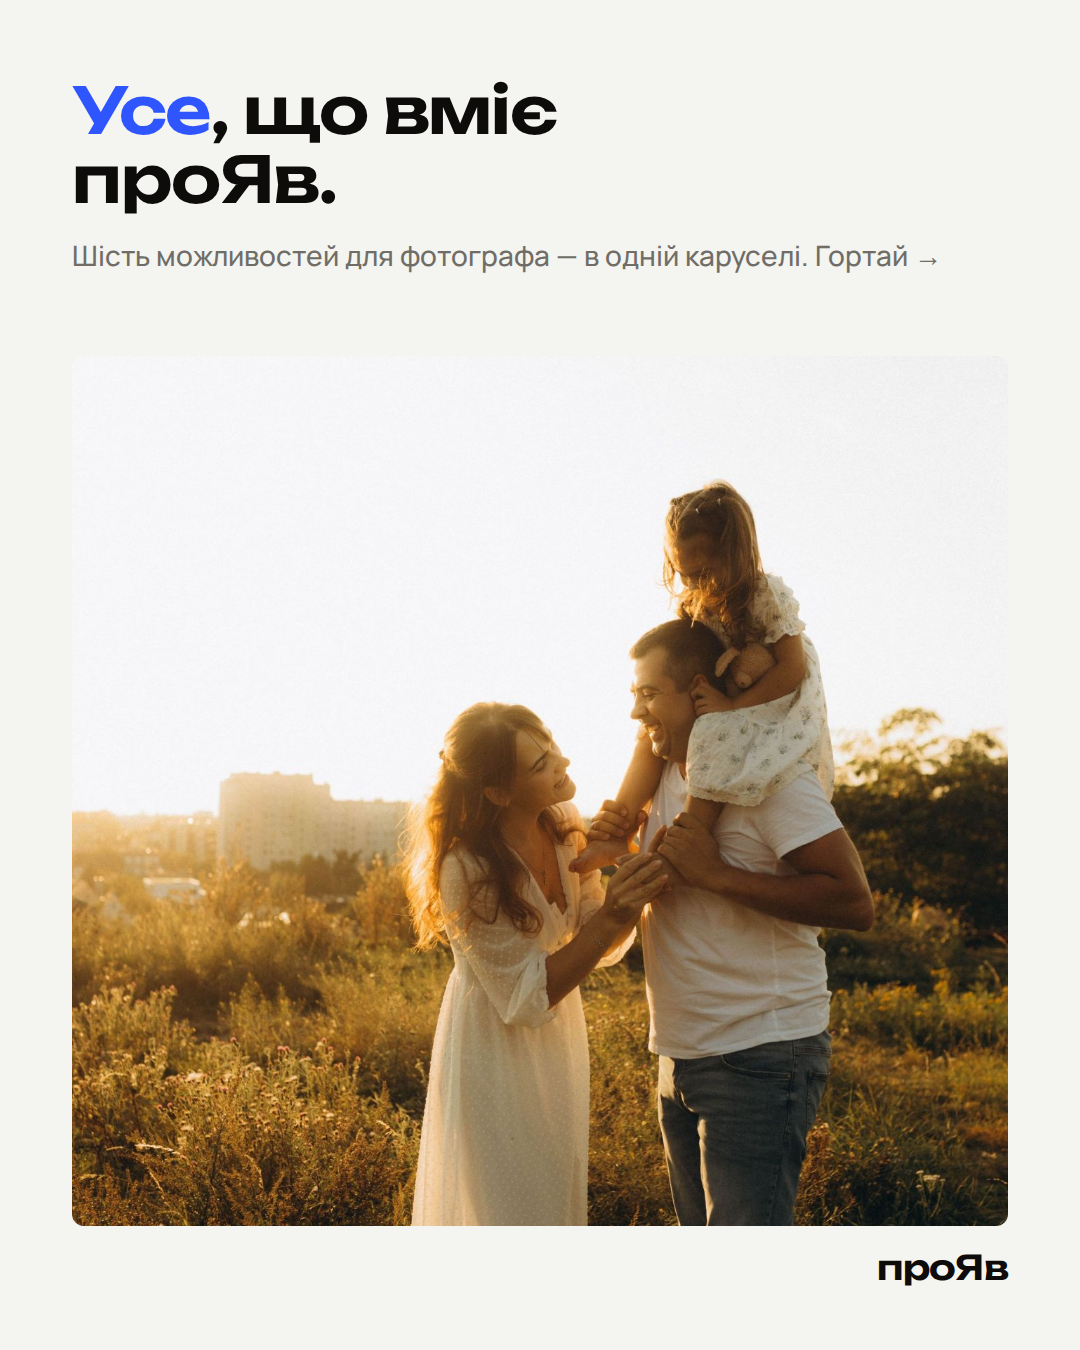
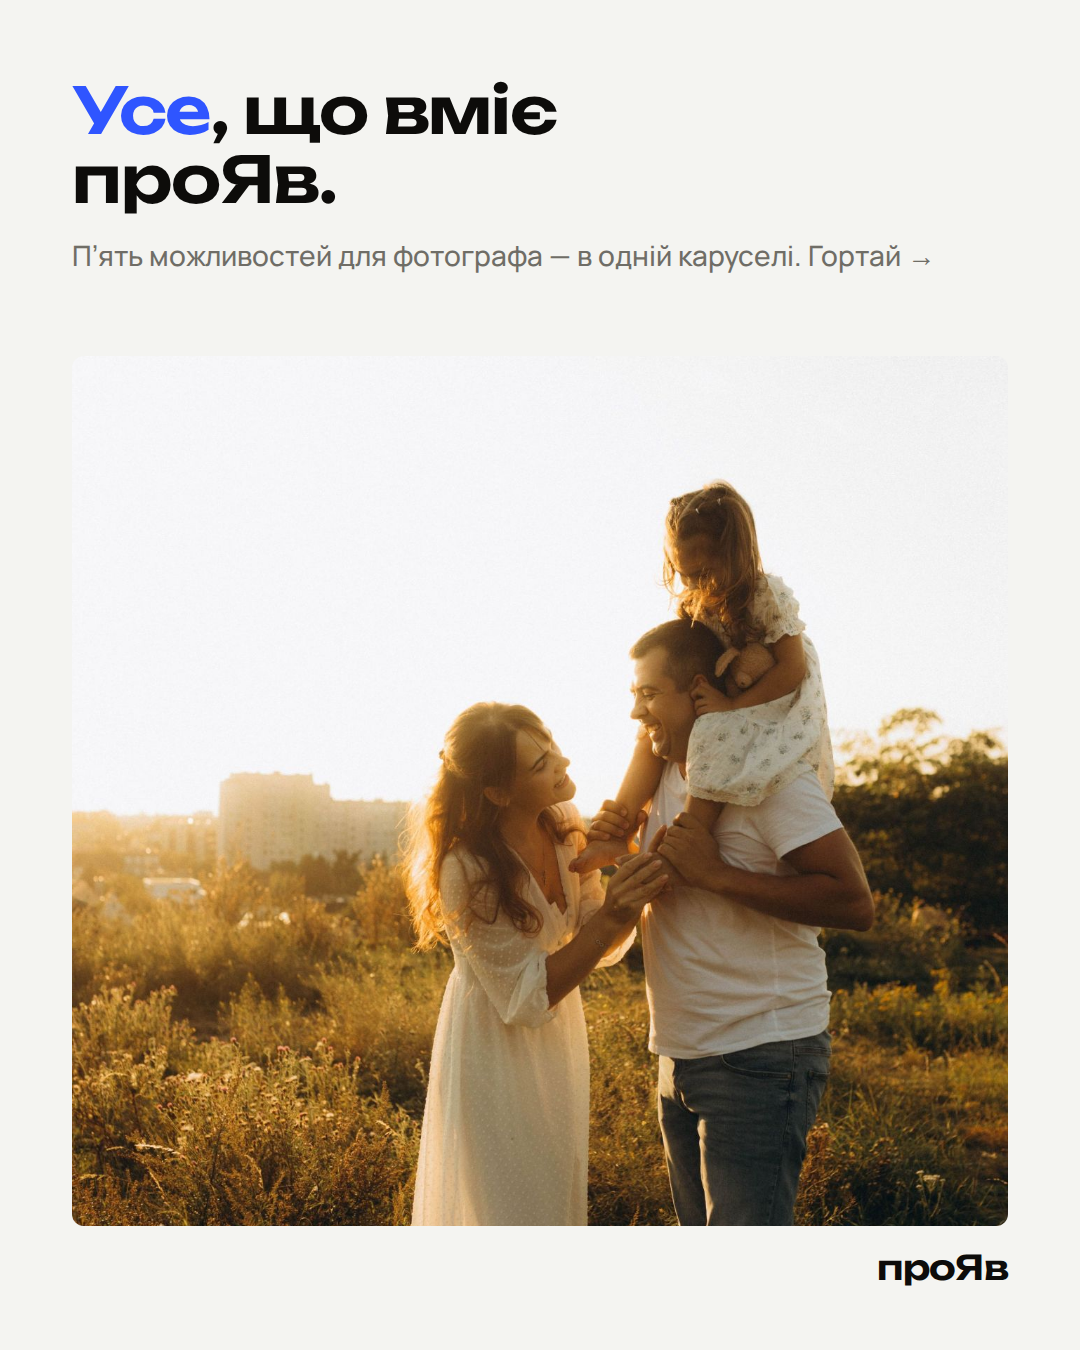
Instagram: drop booking (not set up yet) from benefits stories and post 6
Claude-Session: https://claude.ai/code/session_011MSKAXg5H2XrJH8r6h15Hd

Changed region(s): [[0.0611, 0.1867, 0.8556, 0.2178]]

diff --git a/marketing/instagram/posts.html b/marketing/instagram/posts.html
@@ -445,13 +445,12 @@ const POSTS = [
     { h: 'Скільки разів <em>відкрили.</em>', p: 'Перегляди й завантаження кожної галереї — з тарифу «Плюс».', dark: true, s: S.statsList },
   ]],
   ['06', [
-    { h: '<em>Усе</em>, що вміє<br>проЯв.', p: 'Шість можливостей для фотографа — в одній каруселі. Гортай →', layout: 'photo', photo: 's14' },
+    { h: '<em>Усе</em>, що вміє<br>проЯв.', p: 'Пʼять можливостей для фотографа — в одній каруселі. Гортай →', layout: 'photo', photo: 's14' },
     { h: 'Галерея <em>одним посиланням.</em>', p: 'Клієнт відкриває й завантажує сам — оригінали, усе одним zip. Без Google Drive.', s: S.gallery },
     { h: 'Відбір<br><em>сердечком.</em>', p: 'Клієнт позначає кадри на ретуш, ти копіюєш список файлів одним натиском.', layout: 'photo', photo: '41', ov: O.fav },
     { h: 'Пароль<br>і <em>термін дії.</em>', p: 'На кожну галерею окремо. Водяний знак на превʼю — за бажанням. Усе це є безкоштовно.', stat: ['31.12', 'і галерея закриється сама'], layout: 'side', s: S.settings },
     { h: 'Відео —<br><em>з «Базового».</em>', p: 'Фільм і фото в одній галереї. Великі файли вантажаться частинами — обрив мережі не страшний.', layout: 'photo', photo: '29', ov: O.video },
     { h: '<em>9 мов</em><br>для клієнтів.', p: 'Клієнт з-за кордону перемикає мову галереї сам.', layout: 'zoom', s: S.langOpen },
-    { h: 'Клієнт сам <em>бронює й платить.</em>', p: 'Monobank, WayForPay або реквізити — гроші йдуть напряму тобі. Неоплачений слот звільняється сам.', s: S.booking },
     { h: 'Почни з <em>3 ГБ безкоштовно.</em>', p: 'Без картки. Більше місця — від 129 ₴ за 100 ГБ.<br>Посилання — у профілі.', layout: 'photo', photo: 's04', ov: O.cta },
   ]],]
 
@@ -488,7 +487,6 @@ const STORY_SETS = [
     { h: 'Клієнт<br><em>з-за кордону.</em>', ex: 'Пара з Польщі, гості з Німеччини. Ти надсилаєш одне посилання — кожен перемикає галерею на свою мову. Усього 9 мов.', s: S.langOpen },
     { h: 'Відео<br><em>поруч із фото.</em>', ex: 'Фільм на 4 хвилини й тизер лежать у тій самій галереї, що й 400 кадрів. Клієнт не шукає окреме посилання на хмару. З «Базового».', photo: '29', ov: O.video },
     { h: 'Твій бренд,<br><em>не наш.</em>', ex: 'Клієнтка пересилає галерею подрузі — та бачить твій логотип і твоє імʼя. Без «Створено на проЯв». З «Базового».', photo: 's01', ov: O.cover('Червень 2026', 'Весілля Марії та Андрія', O.logoMark) },
-    { h: 'Бронювання<br><em>з оплатою.</em>', ex: 'Клієнтка обирає суботу, 13:00, і одразу платить через Monobank — слот твій. Не заплатила — слот звільняється сам, без твоїх нагадувань.', s: S.booking },
     { h: 'Почни з<br><em>3 ГБ безкоштовно.</em>', p: 'Без картки. Посилання ↓', photo: 's04', short: true },
   ]],
 ]

diff --git a/marketing/instagram/README.md b/marketing/instagram/README.md
@@ -19,7 +19,7 @@
 | 03. Фото і відео | обкладинка | ролик грає в галереї | фільм, тизер, перший танець (Базовий, 129 ₴) | — |
 | 04. 9 мов | обкладинка | пароль мовою клієнта | мова вже в посиланні | 9 мов списком |
 | 05. Обране і статистика | обкладинка | клієнт ставить сердечко | список файлів одним натиском | скільки разів відкрили (Плюс) |
-| 06. Закріплений: усе, що вміє проЯв (8 слайдів) | обкладинка | галерея одним посиланням → відбір сердечком → пароль і термін дії → відео з «Базового» → 9 мов → бронювання й оплата | CTA: 3 ГБ безкоштовно | — |
+| 06. Закріплений: усе, що вміє проЯв (7 слайдів) | обкладинка | галерея одним посиланням → відбір сердечком → пароль і термін дії → відео з «Базового» → 9 мов | CTA: 3 ГБ безкоштовно | — |
 
 ## Факти звірено з кодом (`src/lib/plans.ts`)
 
@@ -63,7 +63,7 @@
 
 З «Плюс» ще й видно, скільки разів відкрили галерею і скільки завантажили. Посилання — у профілі.
 
-**6.** Усе, що вміє проЯв, — в одній каруселі: галереї, відбір, пароль, відео, 9 мов і бронювання з оплатою. Збережи, щоб не шукати.
+**6.** Усе, що вміє проЯв, — в одній каруселі: галереї, відбір, пароль, відео і 9 мов. Збережи, щоб не шукати.
 
 Почни з 3 ГБ безкоштовно, без картки. Посилання — у профілі.
 
@@ -84,7 +84,7 @@
 
 «Чайові від клієнтів» (є на лендингу для «Плюс») у сторіс не згадані — у коді вони ще не реалізовані (`tips` у `plans.ts`).
 
-**Набір «Переваги на прикладах» — `png/story-perevahy-01…08.png`**
+**Набір «Переваги на прикладах» — `png/story-perevahy-01…07.png`**
 
 | № | Перевага | Приклад |
 |---|---|---|
@@ -94,8 +94,7 @@
 | 04 | 9 мов | пара з Польщі, гості з Німеччини |
 | 05 | Відео з «Базового» | фільм і тизер поруч із 400 кадрами |
 | 06 | Твій бренд | клієнтка пересилає галерею подрузі |
-| 07 | Бронювання з оплатою | субота 13:00, оплата Monobank, неоплачений слот звільняється |
-| 08 | Почни з 3 ГБ → стікер «Посилання» | — |
+| 07 | Почни з 3 ГБ → стікер «Посилання» | — |
 
 ## Хештеги (один набір на всі пости)
 
